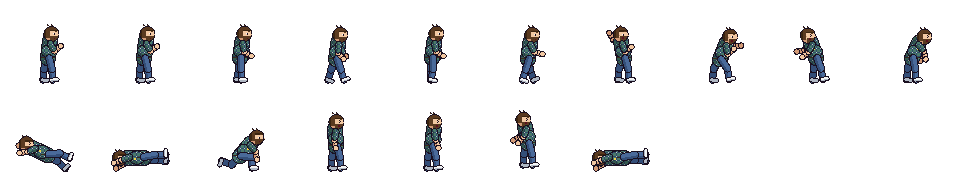
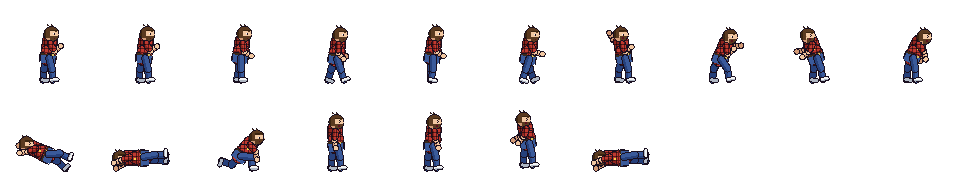
v0.7.1: redraw Lead-Apron Lou (gown + fitted lead apron), Lab-Coat Hugger, Visitor in flannel + belt + jeans
Bill's art fixes, hitboxes and fights unchanged:
- Lead-Apron Lou: the puffy blue blob is gone. Same height (~1.4x a nurse) and still broad, now a natural patient
  build in the standard checked gown (runtime green/olive) and yellow grip socks with visible arms, hands and legs.
  A fitted radiology lead apron sits over the front of the gown: flat slate panel with a clean ink outline and edge
  highlight, thyroid collar, shoulder and waist straps, dosimeter badge (lou_apron() via the rig's pattern hook).
  Every frame, plus a new HUD portrait of Lou himself (portrait() gains a scale arg).
- The Radiology "apron" patient is now the LAB-COAT HUGGER: open white lab coat (lapels, pockets, long sleeves,
  tails below the waist) over a pale-yellow shirt, red tie, charcoal slacks and brown shoes; the starchy coat now
  soaks up his two jabs. Runtime palette no longer recolours gown/socks for him.
- Belligerent Visitor: red buffalo-plaid flannel ending at the hips with a visible hem, belt with buckle, then
  denim jeans with their own shading and fly seam, and sneakers. No one-piece look.
- docs/v071_before_after.png (lineup + in-game), docs/v07_sizes.png refreshed, CHANGELOG v0.7.1, AGENTS.md notes.
- v07 test: slam bystander held still (dizzy) so machine load can't make it wander off. v05 (Lou fight, MRI, full
  flow, bot playthroughs), v07 (incl. bot wins Lou), v04, v06, patients, smoke pass with no console errors.
- Service worker cache nbd2-app-v12.

diff --git a/src/data.js b/src/data.js
@@ -73,8 +73,9 @@ export const ENEMIES = {
   // v0.5 Radiology patients. ai = which patient brain they borrow (src/enemy.js); lines = their own chatter.
   barium: { name: 'CONTRAST CHUGGER', sheet: 'barium', ai: 'tray', proj: 'barium', hp: 34, speed: 34, depth: 26, reach: 150, score: 450, atk: 'throw', cd: [1.6, 2.6], keep: 118, drop: ['energy', 0.3],
     ko: ['Tastes like... chalk... zzz', 'Banana flavor, my foot... zzz'], voice: 'voice1', lines: ['BANANA FLAVOR?!', 'Drink it ALL, they said!', 'Bottoms up!'] },
-  apron: { name: 'LEAD-APRON HUGGER', sheet: 'apron', ai: 'wanderer', hp: 56, speed: 26, depth: 22, reach: 24, score: 450, atk: 'hug', cd: [1.8, 2.8], armor: 2,
-    ko: ['So... heavy... zzz', 'Is the scan over? ...zzz'], voice: 'voice0', lines: ['They said keep it ON!', 'Hug for the X-ray tech?'] },
+  // v0.7.1: wears a borrowed white lab coat now (Bill); the starchy coat soaks up two jabs (armor)
+  apron: { name: 'LAB-COAT HUGGER', sheet: 'apron', ai: 'wanderer', hp: 56, speed: 26, depth: 22, reach: 24, score: 450, atk: 'hug', cd: [1.8, 2.8], armor: 2,
+    ko: ['Paging... Dr. Nap... zzz', 'Is the scan over? ...zzz'], voice: 'voice0', lines: ['I\'m a doctor now!', 'Doctor\'s orders: HUG!'] },
   // v0.6 Fire Alarm Yeller (any floor, src/alarm.js): sprints for a pull station; knock him down before he pulls it
   yeller: { name: 'FIRE ALARM YELLER', sheet: 'yeller', ai: 'yeller', hp: 30, speed: 72, depth: 40, reach: 22, score: 600, atk: 'slap', cd: [1.3, 2.1],
     ko: ['Was it... not a fire? ...zzz', 'I smelled TOAST! ...zzz', 'False alarm... zzz'], voice: 'voice5', lines: ['FIRE! FIIIRE!', 'I SMELL SMOKE!'] },

diff --git a/sw.js b/sw.js
@@ -1,7 +1,7 @@
 // Home-screen app support (n64-suite games). Network first, always: online play never sees a stale file. The small
 // code / data files (html, js, css, json, webmanifest) are kept in a cache only so the app can still open offline.
 // It also gives Chrome the fetch handler it wants before it offers "Install app" (beforeinstallprompt).
-const CACHE = 'nbd2-app-v11';
+const CACHE = 'nbd2-app-v12';
 const SMALL = /\.(?:html|js|css|json|webmanifest)$|\/$/;
 self.addEventListener('install', () => self.skipWaiting());
 self.addEventListener('activate', (e) => e.waitUntil(self.clients.claim()));

diff --git a/tools/chars.py b/tools/chars.py
@@ -67,8 +67,8 @@ def stripes(S, T, hip, neck, lean, b):
 
 
 WILL_BLUE = ("#2f86f6", "#1c5ec4")
-FLANNEL = ("#4a7a6a", "#33584c")                                   # visitor's flannel shirt: muted green/teal
-FLANNEL_CHECK = ("#2e4a6a", "#22384e", "#c8d4c0", "#8a9a88")       # dark blue lines, light crossings   # Will: plain bright blue shirt (Bill, 2026-10-03)
+FLANNEL = ("#c03a30", "#8e2620")                                   # visitor's flannel shirt: red buffalo plaid (v0.7.1; was teal, read as a onesie with the jeans)
+FLANNEL_CHECK = ("#5a1a1a", "#3e1010", "#2a0c0c", "#1e0808")       # dark lines, near-black crossings   # Will: plain bright blue shirt (Bill, 2026-10-03)
 
 
 def bald_shine(S, hc, r, b, pose):
@@ -228,6 +228,92 @@ def hero_body(**kw):
     return base
 
 
+LEAD = ("#3c4658", "#2a3242", "#5a6880")   # lead apron: slate face, shade, edge highlight (not in any runtime palette)
+
+
+def lou_apron(S, T, hip, neck, lean, b):
+    """v0.7.1 Lead-Apron Lou: a fitted lead apron over the front of his gown (pose space, follows the lean)."""
+    up, fwd = vec(180 - lean, 1), vec(90 - lean, 1)
+    tw, L = b["torso_w"], b["thigh"] * 0.62
+    def at(base, u, f):
+        return T((base[0] + up[0] * u + fwd[0] * f, base[1] + up[1] * u + fwd[1] * f))
+    # shoulder strap over the near shoulder, running back (drawn first so the panel edge sits on top of it)
+    S.capsule(at(neck, -1.0, tw * 0.05), at(neck, -6.5, -tw * 0.42), 2.6, LEAD[1], LEAD[1])
+    # waist strap round to the back
+    S.capsule(at(hip, 7, -tw * 0.05), at(hip, 6, -tw * 0.5), 2.0, LEAD[1], LEAD[1])
+    # the panel: flat, straight-edged, covering the chest and belly and hanging to mid-thigh
+    panel = [at(neck, -2.0, -tw * 0.12), at(neck, -2.0, tw * 0.5 + 0.6), at(hip, -L, tw * 0.5 + 1.6), at(hip, -L, -tw * 0.16)]
+    S.poly(panel, LEAD[0])
+    # shading: a darker back third, a light front edge and a hem line
+    S.poly([panel[0], at(neck, -2.0, tw * 0.06), at(hip, -L, tw * 0.04), panel[3]], LEAD[1], rim=False)
+    S.line(at(neck, -3.0, tw * 0.5 - 0.6), at(hip, -L + 1.2, tw * 0.5 + 0.4), LEAD[2])
+    S.line(at(hip, -L + 1.2, -tw * 0.12), at(hip, -L + 1.2, tw * 0.5 + 0.6), LEAD[1])
+    # thyroid collar wrapped round the neck
+    S.capsule(at(neck, 0.6, -tw * 0.18), at(neck, 0.6, tw * 0.34), 4.2, LEAD[0], LEAD[1])
+    S.line(at(neck, 1.6, -tw * 0.1), at(neck, 1.6, tw * 0.3), LEAD[2])
+    # dosimeter badge clipped to the collar
+    bx, by = at(neck, -4.0, tw * 0.3)
+    S.rect(int(bx), int(by), 2, 3, "#f6d63a"); S.set(int(bx), int(by), "#ffffff")
+
+
+COAT = ("#f2f4f8", "#c4cad6", "#ffffff")   # lab coat white, shade, highlight
+COAT_SHIRT = ("#e8dc9a", "#c0b070")         # the shirt under the coat (pale yellow, so nothing reads as a blue gown)
+JEANS = ("#3a5a9a", "#26407a", "#5a7ab8")   # visitor's jeans: denim, shade, seam highlight
+
+
+def _frame(up, fwd, T):
+    def at(base, u, f):
+        return T((base[0] + up[0] * u + fwd[0] * f, base[1] + up[1] * u + fwd[1] * f))
+    def hang(base, u, f, d):  # a point d px straight below (coat tails hang vertically, whatever the lean)
+        return T((base[0] + up[0] * u + fwd[0] * f, base[1] + up[1] * u + fwd[1] * f + d))
+    return at, hang
+
+
+def lab_coat(S, T, hip, neck, lean, b):
+    """v0.7.1 Lab-Coat Hugger: an open white lab coat (lapels, pockets, tails below the waist) over a shirt and tie."""
+    up, fwd = vec(180 - lean, 1), vec(90 - lean, 1)
+    at, hang = _frame(up, fwd, T)
+    tw, L = b["torso_w"], b["thigh"] * 0.9
+    # back tail of the coat, hanging open below the waist
+    S.poly([at(hip, 2, -tw / 2 - 1), at(hip, 2, tw * 0.14), hang(hip, 0, tw * 0.05, L), hang(hip, 0, -tw / 2 - 2.5, L)], COAT[1])
+    S.line(hang(hip, 0, -tw / 2 - 1.5, L - 1), hang(hip, 0, tw * 0.0, L - 1), "#a8aebc")
+    # coat body over the side of the torso (the front stays open, showing the shirt)
+    S.poly([at(neck, -0.5, -tw / 2 - 1), at(neck, -0.5, tw * 0.2), at(hip, 2, tw * 0.16), at(hip, 2, -tw / 2 - 1)], COAT[0])
+    S.line(at(neck, -1.5, -tw / 2), at(hip, 3, -tw / 2), COAT[2])
+    # tie down the open front
+    S.line(at(neck, -1.0, tw * 0.34), at(hip, 4, tw * 0.36), "#a8323a"); S.line(at(neck, -1.0, tw * 0.3), at(neck, -3, tw * 0.3), "#a8323a")
+    # front edge of the coat + its front tail, hanging open
+    S.poly([at(neck, -4, tw * 0.42), at(neck, -4, tw / 2 + 0.8), at(hip, 2, tw / 2 + 0.8), at(hip, 2, tw * 0.44)], COAT[0])
+    S.poly([at(hip, 2, tw * 0.3), at(hip, 2, tw / 2 + 0.8), hang(hip, 0, tw / 2 + 2, L - 1), hang(hip, 0, tw * 0.28, L - 1)], COAT[0])
+    # lapels: a white notch collar folding open from the neck
+    S.poly([at(neck, 0.5, tw * 0.0), at(neck, 0.5, tw / 2 + 0.8), at(neck, -5.5, tw * 0.44)], COAT[0])
+    S.line(at(neck, -0.5, tw * 0.2), at(neck, -4.5, tw * 0.42), COAT[1])
+    # pockets: chest pocket with a pen, hip pocket on the tail
+    px, py = at(neck, -5, -tw * 0.18)
+    S.rect(int(px) - 1, int(py), 4, 3, COAT[1]); S.rect(int(px), int(py) - 2, 1, 2, "#2a5ad8")
+    qx, qy = hang(hip, 0, -tw * 0.32, 2)
+    S.rect(int(qx) - 2, int(qy), 5, 3, COAT[1]); S.rect(int(qx) - 2, int(qy), 5, 1, "#a8aebc")
+
+
+def flannel_and_jeans(S, T, hip, neck, lean, b):
+    """v0.7.1 Belligerent Visitor: the shirt stops at the hips (hem), then a belt, then jeans: no one-piece look."""
+    up, fwd = vec(180 - lean, 1), vec(90 - lean, 1)
+    at, hang = _frame(up, fwd, T)
+    tw = b["torso_w"]
+    w0, w1 = -tw / 2 - 0.6, tw / 2 + 0.6
+    # jeans seat over the bottom of the torso capsule (clean straight top edge, ink sides)
+    S.poly([at(hip, 3.2, w0), at(hip, 3.2, w1), at(hip, -5, w1 - 0.6), at(hip, -5, w0 + 0.6)], JEANS[0], rim=False)
+    S.line(at(hip, 3.2, w0 - 0.8), at(hip, -4, w0 - 0.2), INK); S.line(at(hip, 3.2, w1 + 0.8), at(hip, -4, w1 + 0.2), INK)
+    S.line(at(hip, 1.0, tw * 0.15), at(hip, -4, tw * 0.15), JEANS[2])            # fly seam
+    # belt with a buckle
+    S.poly([at(hip, 4.4, w0), at(hip, 4.4, w1), at(hip, 2.8, w1), at(hip, 2.8, w0)], "#3a2a1a", rim=False)
+    bx, by = at(hip, 4.0, tw * 0.28)
+    S.rect(int(bx), int(by), 2, 2, "#d8c060")
+    # the flannel's hem: an untucked edge just over the belt
+    S.line(at(hip, 5.2, w0 - 0.6), at(hip, 5.2, w1 + 0.6), INK)
+    S.line(at(hip, 5.9, w0), at(hip, 5.9, w1), "#6a1a18")
+
+
 def bodies():
     sk = SKIN
     B = {}
@@ -276,7 +362,7 @@ def bodies():
     B["visitor"] = hero_body(thigh=12, shin=12, torso=20, head=7.6, uarm=9.5, farm=9, arm_w=4.6, leg_w=5.8, torso_w=16, belly=1.5,
                              skin=sk["light"][0], skin_s=sk["light"][1], hair_c="#5a3a20", hair_s="#3a2410", hair=hair_cap(top=-0.4, back=0.25, grow=0.4, spikes=2, seed=4),
                              shirt=FLANNEL[0], shirt_s=FLANNEL[1], sleeve=FLANNEL[0], sleeve_s=FLANNEL[1], sleeve_len=0.62, plaid=(FLANNEL, FLANNEL_CHECK),
-                             pants="#4a6a9a", pants_s="#344e78", belt="#3a2a1a", vneck=True, steth=False, badge="#f2d24a", shoe="#f4f4f4", shoe_s="#b0b8c4",
+                             pants=JEANS[0], pants_s=JEANS[1], pattern=flannel_and_jeans, vneck=True, steth=False, badge="#f2d24a", shoe="#f4f4f4", shoe_s="#b0b8c4",
                              beard="#5a3a20", fist=2.2, foot_len=4.4, foot_w=3.0)
     # v0.4 patients (gown + grip socks, random hair at runtime)
     B["runner"] = hero_body(thigh=10.5, shin=10.5, torso=15, torso_w=9, skin=sk["fair"][0], skin_s=sk["fair"][1], hair_c="#f0d070", hair_s="#c0a040",
@@ -286,22 +372,30 @@ def bodies():
                           **gown, pants=sk["light"][0], pants_s=sk["light"][1], **socks)
     B["o2"] = hero_body(thigh=10, shin=10, torso=15, torso_w=10.5, skin=sk["old"][0], skin_s=sk["old"][1], hair_c="#eef0f4", hair_s="#b8bcc8",
                         hair=bald_ring, **{**gown, "gown_len": 10}, **sock)
-    # v0.5 Radiology patients: the Contrast Chugger (barium cup + bendy straw) and the Lead-Apron Hugger (heavy apron)
+    # v0.5 Radiology patients: the Contrast Chugger (barium cup + bendy straw) and the Lead-Apron Hugger (v0.7.1: Lab-Coat Hugger)
     B["barium"] = hero_body(thigh=10, shin=10, torso=15, torso_w=11, belly=1.5, skin=sk["tan"][0], skin_s=sk["tan"][1], hair_c="#2a1a12", hair_s="#140c08",
                             hair=hair_cap(top=-0.1, back=0.35, grow=1.2, spikes=2, seed=12), mouth="#f4f6fa", **gown, pants=sk["tan"][0], pants_s=sk["tan"][1], **socks)
-    B["apron"] = hero_body(thigh=10.5, shin=10, torso=17, torso_w=13, belly=1.5, skin=sk["light"][0], skin_s=sk["light"][1], hair_c="#6b4a2a", hair_s="#4a3018",
-                           hair=hair_cap(top=-0.25, back=0.3, grow=0.7, seed=13), beard="#6b4a2a",
-                           **{**gown, "shirt": "#3a6ad8", "shirt_s": "#2a4aa8", "gown_len": 12}, pants=sk["light"][0], pants_s=sk["light"][1], **socks)
+    # v0.7.1 (Bill): the Radiology "apron" patient now wears an open WHITE LAB COAT (lapels, pockets, tails below the waist,
+    # long sleeves) over a pale-yellow shirt, red tie and charcoal slacks: he "borrowed" it. The starchy coat soaks up two jabs.
+    B["apron"] = hero_body(thigh=10.5, shin=10, torso=17, torso_w=13, belly=1.0, skin=sk["light"][0], skin_s=sk["light"][1], hair_c="#6b4a2a", hair_s="#4a3018",
+                           hair=hair_cap(top=-0.25, back=0.3, grow=0.7, seed=13), beard="#6b4a2a", eye_white=True,
+                           shirt=COAT_SHIRT[0], shirt_s=COAT_SHIRT[1], sleeve=COAT[0], sleeve_s=COAT[1], sleeve_len=1.75, vneck=False, steth=False, badge=None,
+                           pants="#4a4a56", pants_s="#34343e", shoe="#5a3a26", shoe_s="#3a2416", foot_len=3.8)
+    B["apron"]["pattern"] = lab_coat
     # v0.6 Fire Alarm Yeller: wild white hair, red face from all the yelling, runs for the pull station
     B["yeller"] = hero_body(thigh=10, shin=10.5, torso=15, torso_w=10, skin="#f0a890", skin_s="#c87a64", hair_c="#f4f4f8", hair_s="#b8bcc8",
                             hair=hair_cap(top=-0.35, back=0.35, grow=1.6, spikes=6, seed=21), mouth="#a01c28",
                             **{**gown, "gown_len": 8}, pants="#f0a890", pants_s="#c87a64", **socks)
-    # v0.5 mini-boss LEAD-APRON LOU: a gentle giant ex-linebacker wearing three lead aprons like shoulder pads.
-    # v0.7 (Bill's boss-size override for this game): ~1.4x a nurse's height, still twice as broad as anyone else.
-    B["lou"] = hero_body(thigh=14, shin=13.5, torso=27, head=9.4, uarm=11.5, farm=11, arm_w=7.8, leg_w=10, torso_w=31, fist=3.8, foot=3, foot_len=6, belly=5,
+    # v0.5 mini-boss LEAD-APRON LOU: a gentle-giant ex-linebacker.
+    # v0.7 (Bill's boss-size override for this game): ~1.4x a nurse's height and broad-shouldered.
+    # v0.7.1 (Bill: the old puffy blue body "looked weird"): a normal patient build scaled up, in the standard checked gown and
+    # yellow grip socks, with a FITTED radiology lead apron over the front of the gown (flat slate panel, thyroid collar,
+    # shoulder strap, waist strap, dosimeter badge), drawn by lou_apron() below. Bare arms and legs show like everyone else's.
+    B["lou"] = hero_body(thigh=14, shin=13.5, torso=27, head=9.4, uarm=11.5, farm=11, arm_w=5.4, leg_w=7, torso_w=22, fist=3.0, foot=3, foot_len=5, belly=1.5,
                          skin=sk["brown"][0], skin_s=sk["brown"][1], hair_c="#2a1a12", hair_s="#140c08", hair=hair_cap(top=-0.35, back=0.2, grow=0.5, seed=14),
-                         **{**gown, "shirt": "#2a6a9a", "shirt_s": "#1c4c74", "gown_len": 7}, pants=sk["brown"][0], pants_s=sk["brown"][1],
+                         **{**gown, "gown_len": 12, "sleeve_len": 0.5}, pants=sk["brown"][0], pants_s=sk["brown"][1],
                          shoe=SOCK[0], shoe_s=SOCK[1], sock=SOCK[0])
+    B["lou"]["pattern"] = lou_apron
     # v0.7 (Bill): patients are the SAME size as the staff. Every patient type, elite and variant gets the nurses' average
     # height and build (only hair, props and a little belly differ). The Belligerent Visitor matches Nick's height with
     # slightly broader shoulders. The mini-boss Lou is sized separately (boss rule: ~1.2-1.5x a nurse).

diff --git a/tests/v05.py b/tests/v05.py
@@ -1,4 +1,4 @@
-# v0.5: Floor 4 Radiology (dark floor + neon-blue lightboxes, radiology props, Contrast Chugger + Lead-Apron Hugger),
+# v0.5: Floor 4 Radiology (dark floor + neon-blue lightboxes, radiology props, Contrast Chugger + Lab-Coat Hugger, v0.5's Lead-Apron Hugger),
 # Lead-Apron Lou (mini-boss), MAGNA-SCAN 3000 (MRI magnet boss: pull / quench weak point / knock waves / table, 2 phases),
 # the Night Shift (lights out, flashlights, glowing eyes, lights back on at the end), and the full flow
 # L1 -> bonus -> Radiology -> Night -> ending -> scores with 2P / continues / pad / touch, plus bot playthroughs of the new floors.
@@ -55,10 +55,10 @@ with sync_playwright() as p:
         s2 = pg.evaluate("__nbd.W.shots.map(s=>s.kind+':'+(s.spr||''))")
         check('Contrast Chugger: barium cup -> white puddle', 'p_cup' in s1 and 'puddle:puddle_w' in s2, [s1, s2])
         pg.screenshot(path='tests/out/v05_barium.png'); pg.evaluate(CLEAR)
-        # Lead-Apron Hugger shrugs off jabs (armor), then goes down to a kick
+        # Lab-Coat Hugger (v0.7.1; was the Lead-Apron Hugger) shrugs off jabs (armor), then goes down to a kick
         i = foe(pg, 'apron', 26)
         r = pg.evaluate(f"(()=>{{const e=F[{i}], h=__nbd.W.heroes[0]; const a0=e.armor; e.takeHit({{dmg:4, dir:1, kb:20, from:h}}); const st1=e.st, a1=e.armor; e.takeHit({{dmg:8, dir:1, kb:150, down:true, from:h}}); return [a0, a1, st1, e.st, e.type, e.kind];}})()")
-        check('Lead-Apron Hugger: lead apron absorbs jabs, kick knocks it down', r[0] == 2 and r[1] == 1 and r[2] != 'hurt' and r[3] == 'fall' and r[4] == 'apron', r)
+        check('Lab-Coat Hugger: the starchy coat absorbs jabs, kick knocks him down', r[0] == 2 and r[1] == 1 and r[2] != 'hurt' and r[3] == 'fall' and r[4] == 'apron', r)
         pg.evaluate(CLEAR)
         # radiology props break into their own debris; the viewer glows; metal flag set
         r = pg.evaluate("""(()=>{const W=__nbd.W, h=W.heroes[0], out={}; for (const k of ['apronrack','contrastcart','viewer']) { const i=__nbd.prop(k, 40, 0); const p=W.props[i]; let n=0; while (p.st<2 && n<12) { __nbd.hitProp(p, 20, {dir:1, kb:20, from:h}); n++; } out[k]=[p.st, n, !!p.def.metal, p.def.glow||'']; } return out;})()""")

diff --git a/tools/make_art.py b/tools/make_art.py
@@ -65,6 +65,8 @@ for e in PATIENTS:
     b = B[e]
     atlas["chars"][e]["pal"] = {"hair": [b["hair_c"], b["hair_s"]], "skin": [b["skin"], b["skin_s"]],
                                 "gown": [chars.GOWN[0], chars.GOWN[1], *chars.GOWN_CHECK], "sock": [b["shoe"], b["shoe_s"]]}
+    if e == "apron":  # v0.7.1: lab coat + brown shoes, no gown or grip socks to recolour
+        atlas["chars"][e]["pal"]["gown"] = []; atlas["chars"][e]["pal"]["sock"] = []
 atlas["palettes"] = {"hair": chars.HAIRS, "skin": [list(v) for v in chars.SKIN.values()],
                      "gown": [[chars.GOWN[0], chars.GOWN[1], *chars.GOWN_CHECK], list(chars.GOWN_OLIVE)],
                      "sock": [list(chars.SOCK)], "sock_elite": [list(chars.SOCK_ELITE), ["#4a7ae8", "#2a4aa8"]]}
@@ -284,9 +286,9 @@ SPR["logo2"] = word("TERRIBLE BAD DAY", 34, "#ffe84a", "#ff8a1e", stroke=3)
 SPR["logo3"] = word("PART II", 26, "#8ad8ff", "#3a7aff", stroke=3)
 
 # ---- HUD portraits: the same bodies at 2x detail, head crop
-def portrait(body, pose_face="norm"):
-    big = {k: (v * 2 if isinstance(v, (int, float)) and k not in ("belly",) else v) for k, v in body.items()}
-    big["belly"] = body.get("belly", 0) * 2 if body.get("belly") else 0
+def portrait(body, pose_face="norm", k=2):
+    big = {n: (v * k if isinstance(v, (int, float)) and not isinstance(v, bool) and n not in ("belly",) else v) for n, v in body.items()}
+    big["belly"] = body.get("belly", 0) * k if body.get("belly") else 0
     from rig import P
     img, m = figure(big, P(lean=0, head=0, face=pose_face, ua_f=-5, fa_f=-5, ua_b=5, fa_b=5), W=176, H=170, ax=88, ay=166)
     hx = 88 + m["head"][0]
@@ -299,7 +301,7 @@ for h in ("nick", "kim", "will", "jackie"):
     SPR[f"face_{h}"] = portrait(B[h])
     SPR[f"face_{h}_hurt"] = portrait(B[h], "hurt")
 SPR["face_tilly"] = portrait(boss.tilly_body(), "grin")
-SPR["face_lou"] = portrait(B["apron"], "grin")
+SPR["face_lou"] = portrait(B["lou"], "grin", k=1.4)  # v0.7.1: Lou himself (bigger head, so drawn at 1.4x not 2x)
 
 # ---- bitmap font (Press Start 2P, OFL) 8x8, ASCII 32..126, 16 per row
 f = ImageFont.truetype(str(PS), 8)

diff --git a/tests/v07.py b/tests/v07.py
@@ -61,7 +61,7 @@ with sync_playwright() as p:
         check('FORWARD (just the direction) tosses him forward', r1['st'] == 'throw' and r['tosses'] == 1 and r['foes'][0]['dx'] > 60, [r1['st'], r])
         check('the tossed patient knocks down + damages the patient he hits', r['foes'][1]['hp'] < 42 and r['foes'][1]['st'] in DOWN, r['foes'])
         # 2) the direction AWAY from where you face = over-the-shoulder body slam behind you
-        pg.evaluate(FREEZE); pg.evaluate("window.F=[]"); foe(pg, 'wanderer', 14); foe(pg, 'bell', -44)
+        pg.evaluate(FREEZE); pg.evaluate("window.F=[]"); foe(pg, 'wanderer', 14); foe(pg, 'bell', -44, st='dizzy')  # dizzy: stays put under load
         key(pg, 'KeyH', after=0.15); hp0 = pg.evaluate("F[0].hp")
         key(pg, 'KeyA', 0.12, 0.0); time.sleep(0.12); mid = pg.evaluate("({st:__nbd.W.heroes[0].st, z:F[0].z, rot:F[0].rot||0, face:__nbd.W.heroes[0].face})")
         pg.screenshot(path='tests/out/v07_slam_mid.png'); time.sleep(0.8); r = gs(pg)

diff --git a/AGENTS.md b/AGENTS.md
@@ -8,7 +8,7 @@ A 1990s arcade beat 'em up in the spirit of Golden Axe and the TMNT and Simpsons
 their way through hospital floors full of comedic patients. Plain HTML5 Canvas 2D plus ES modules. No build step
 and no dependencies at runtime. Live on GitHub Pages: https://unclebill-spec.github.io/nicks-bad-day-2/
 
-## Current state (2026-10-04, v0.7)
+## Current state (2026-10-04, v0.7.1)
 - **v0.7 additions:**
   - **Dedicated GRAB:** walking into a patient no longer grabs (`autoGrab()` in hero.js is kept but unused). GRAB (H / M, pad B, touch `#b_grab`)
     calls `grab()`. While holding (`s_grab`): direction toward facing (|stick| > 0.55, alone once re-armed by a neutral stick or held 0.4 s,
@@ -21,9 +21,13 @@ and no dependencies at runtime. Live on GitHub Pages: https://unclebill-spec.git
     `bodies()` in tools/chars.py (visitor: Nick height, broader). Runtime hitbox in enemy.js: h 52 / w 14 (visitor h 56 / w 16).
     Don't make patients bigger or smaller than the nurses again.
   - **BOSS-SIZE OVERRIDE (Bill, v0.7, this game only):** bosses are only modestly bigger than the nurses, **~1.2-1.5x a nurse's height**
-    (Tilly 82 px, MRI 83 px, Lou 80 px vs the nurses' 56 px average). This replaces the older "bosses >= 5x, mini-bosses 2-3x" rule for
+    (Tilly 82 px, MRI 83 px, Lou 78 px vs the nurses' 56 px average). This replaces the older "bosses >= 5x, mini-bosses 2-3x" rule for
     Nick's Very Bad, Terrible Bad Day Part II. Knobs: `SC` in tools/boss.py, `MS` in tools/radiology.py (mirrored by `BORE`/drawFace in
     src/mri.js), `B["lou"]` in tools/chars.py; hitboxes/FX in src/boss.js (`SOLID`, `LANE`, `TOP`) and src/mri.js. `docs/v07_sizes.png` shows the lineup.
+  - **v0.7.1 outfits (Bill):** Lou = gown + fitted lead apron painted by `lou_apron()` (body `pattern` hook in tools/rig.py `figure()`,
+    drawn over the torso, under the head and front arm; colours `LEAD`). Apron patient = Lab-Coat Hugger, `lab_coat()` (`COAT`, `COAT_SHIRT`);
+    his runtime palette skips gown/sock recolouring (make_art.py). Visitor = red flannel + hem + belt + jeans via `flannel_and_jeans()` (`JEANS`).
+    Lou's HUD face is `portrait(B["lou"], k=1.4)`. Never go back to the puffy blue Lou or the one-piece Visitor. Before/after: docs/v071_before_after.png.
   - Tests: `tests/v07.py` (A keyboard grab/toss/slam/knee + help pages, B priority/pad/2P/touch layout, C jerky, D sizes).
 - **v0.6 additions:**
   - **Carry/throw props:** `carry: true` in `BREAKABLES` (data.js). Hero `lift`/`carry`/`toss` states in hero.js, flight physics `flyProp`/`landProp` and `THROW` in world.js. Priority: patient grab > gurney > weapon > lift > throw weapon.
@@ -40,9 +44,9 @@ and no dependencies at runtime. Live on GitHub Pages: https://unclebill-spec.git
     blinking red "IN USE" warning lamps, violet MRI sign. The lights come from wall pieces (`GLOW` table in world.js) plus glowing props and the MRI bore.
   - **Props:** lead-apron racks (`apronrack`), contrast carts (`contrastcart`, glow amber, zap), film viewers (`viewer`, glow blue), wheelchairs, gurneys,
     IV stands, crash carts. All use the v0.3 kick/break system. `metal: true` marks what the MRI magnet pulls (props and weapons).
-  - **Patients:** Contrast Chugger (`barium`, `ai:'tray'`, lobs barium cups `p_cup` → white chalky puddle `puddle_w`), Lead-Apron Hugger
+  - **Patients:** Contrast Chugger (`barium`, `ai:'tray'`, lobs barium cups `p_cup` → white chalky puddle `puddle_w`), Lead-Apron Hugger (v0.7.1: Lab-Coat Hugger, white lab coat)
     (`apron`, `ai:'wanderer'`, armor 2: shrugs off two jabs). `d.ai` lets a new patient reuse an AI; `e.kind` is the AI, `e.type` the patient id.
-  - **Mini-boss: LEAD-APRON LOU** (`Lou` in `src/mri.js`), ~80 px tall = **1.43x a nurse** (v0.7; was 133 px). Telegraphed three-point stance → linebacker charge →
+  - **Mini-boss: LEAD-APRON LOU** (`Lou` in `src/mri.js`), ~78 px tall = **1.4x a nurse** (v0.7; was 133 px; v0.7.1 gown + fitted lead apron). Telegraphed three-point stance → linebacker charge →
     winded (`tired`, the weak point: full damage; 40% otherwise, no flinch). Stomp shock ring, X-ray film frisbees (`p_film`). Phase 2 at half HP
     ("FOURTH QUARTER! HIKE!") calls 2 helpers. Zone has `mini:true` (no cutscene); when beaten he is moved to `W.decor` (naps as scenery) and the zone opens.
   - **Boss: MAGNA-SCAN 3000** (`MRI` in `src/mri.js`), a front-view MRI machine with a live LCD face. **Size (v0.7): 83 px = 1.48x a nurse's height,

diff --git a/CHANGELOG.md b/CHANGELOG.md
@@ -2,6 +2,21 @@
 
 All notable changes to Nick's Very Bad, Terrible Bad Day Part II. Dates are America/New_York.
 
+## 2026-10-04: v0.7.1 "Dress Code" (Bill's art fixes: Lou, the apron patient, the Visitor)
+- **Lead-Apron Lou redrawn** (Bill: the puffy blue body "looked weird"). Same height (~78-80 px, ~1.4x a nurse) and still broad, but now a
+  natural patient build in the standard checked gown (random green/olive like everyone else) and yellow grip socks, with visible arms,
+  hands and legs. Over the front of the gown he wears a FITTED radiology lead apron: a flat slate panel with a clean ink outline and edge
+  highlight, a thyroid collar, a shoulder strap, a waist strap and a little dosimeter badge. Every frame (idle, walk, charge, stomp, throw,
+  winded, hurt, falls) plus his HUD portrait, which now shows Lou himself instead of reusing the apron patient's face. (Lou has no
+  cutscene panel; the HUD portrait is his only other art.)
+- **The Radiology "apron" patient is now the LAB-COAT HUGGER:** an open white lab coat (lapels, chest pocket with a pen, hip pocket,
+  long sleeves, tails hanging below the waist) over a pale-yellow shirt, red tie, charcoal slacks and brown shoes. No blue gown. His
+  jab-absorbing gimmick now comes from the starchy coat; new lines ("I'm a doctor now!", "Doctor's orders: HUG!").
+- **The Belligerent Visitor's top and bottom are clearly separate:** a red buffalo-plaid flannel that stops at the hips with a visible
+  hem, a brown belt with a buckle, then denim jeans (different colour, shading and a fly seam) and white sneakers. No onesie look.
+- Hitboxes, stats and the Lou fight are unchanged. Before/after: `docs/v071_before_after.png`; `docs/v07_sizes.png` refreshed.
+  Service worker cache `nbd2-app-v12`.
+
 ## 2026-10-04: v0.7 "Body Slam" (Bill's v0.7 list: a real GRAB, smaller bosses, staff-sized patients, BEEF JERKY)
 - **Dedicated GRAB (touch, gamepad, keyboard; P1 and P2).** Walking into a patient no longer grabs him; press GRAB (H / M, pad B, touch GRAB).
   - Holding a patient: direction toward where you FACE (alone, or with ATK) **tosses him forward**, bowling over and damaging anyone he hits.
